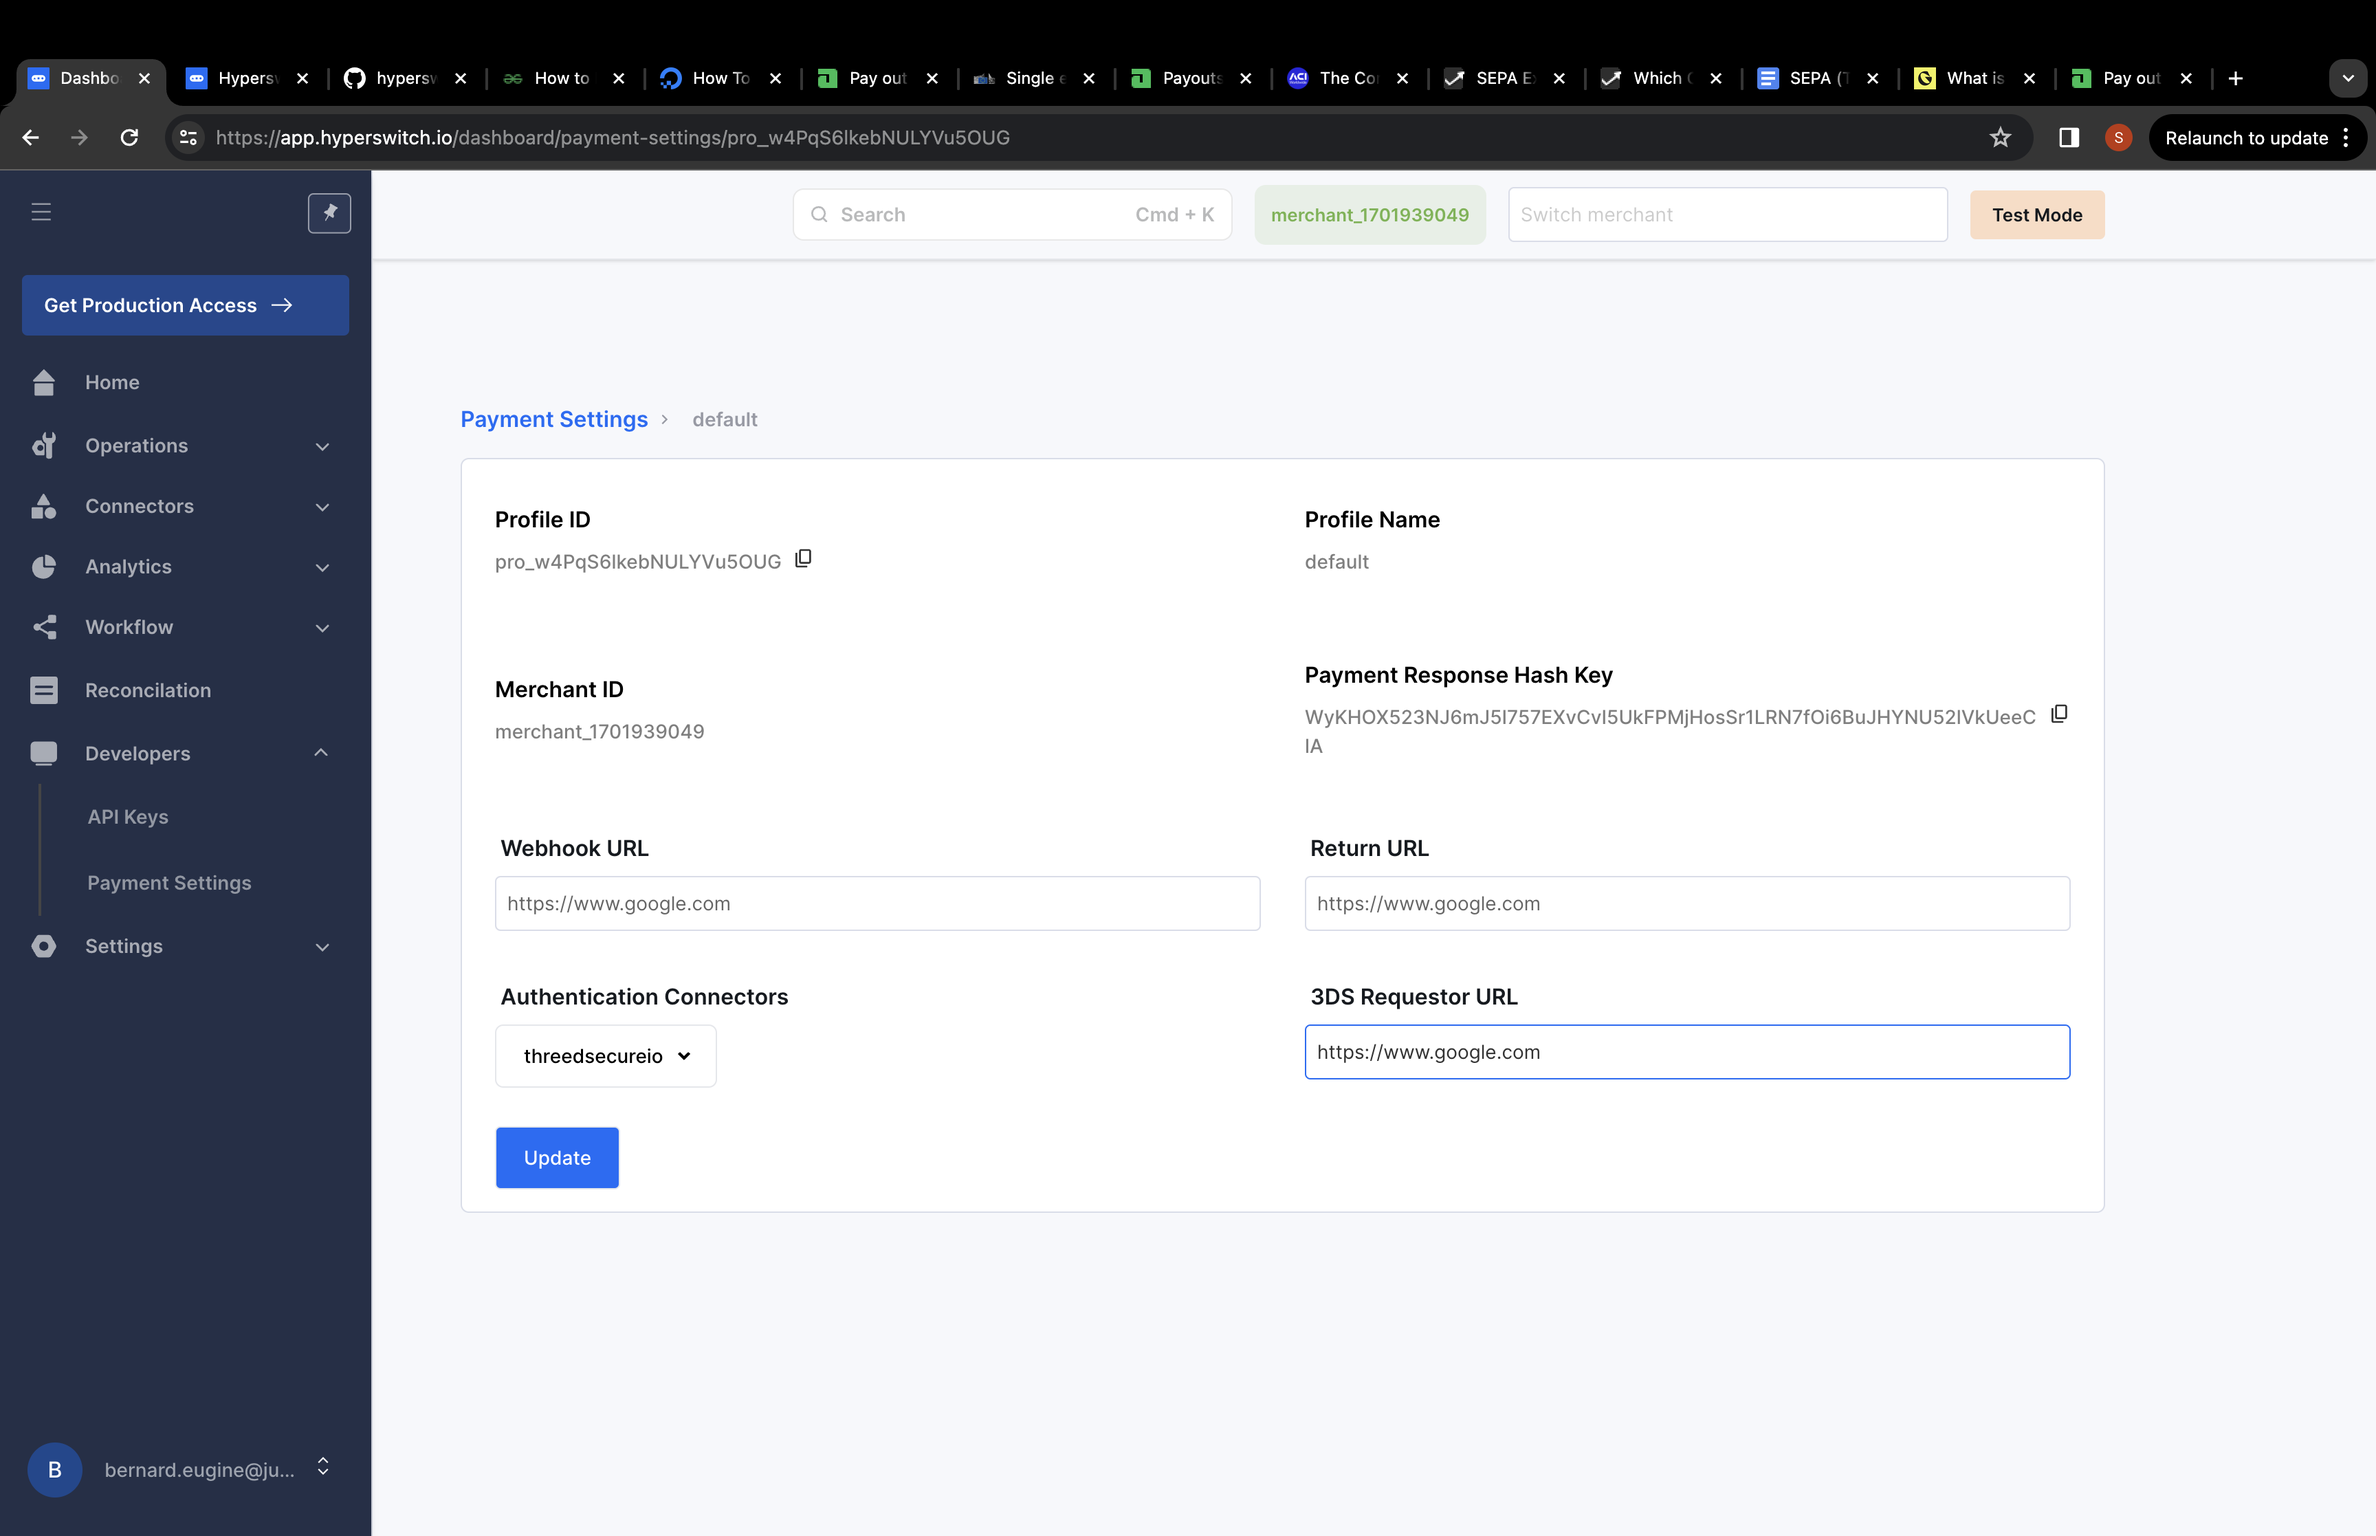
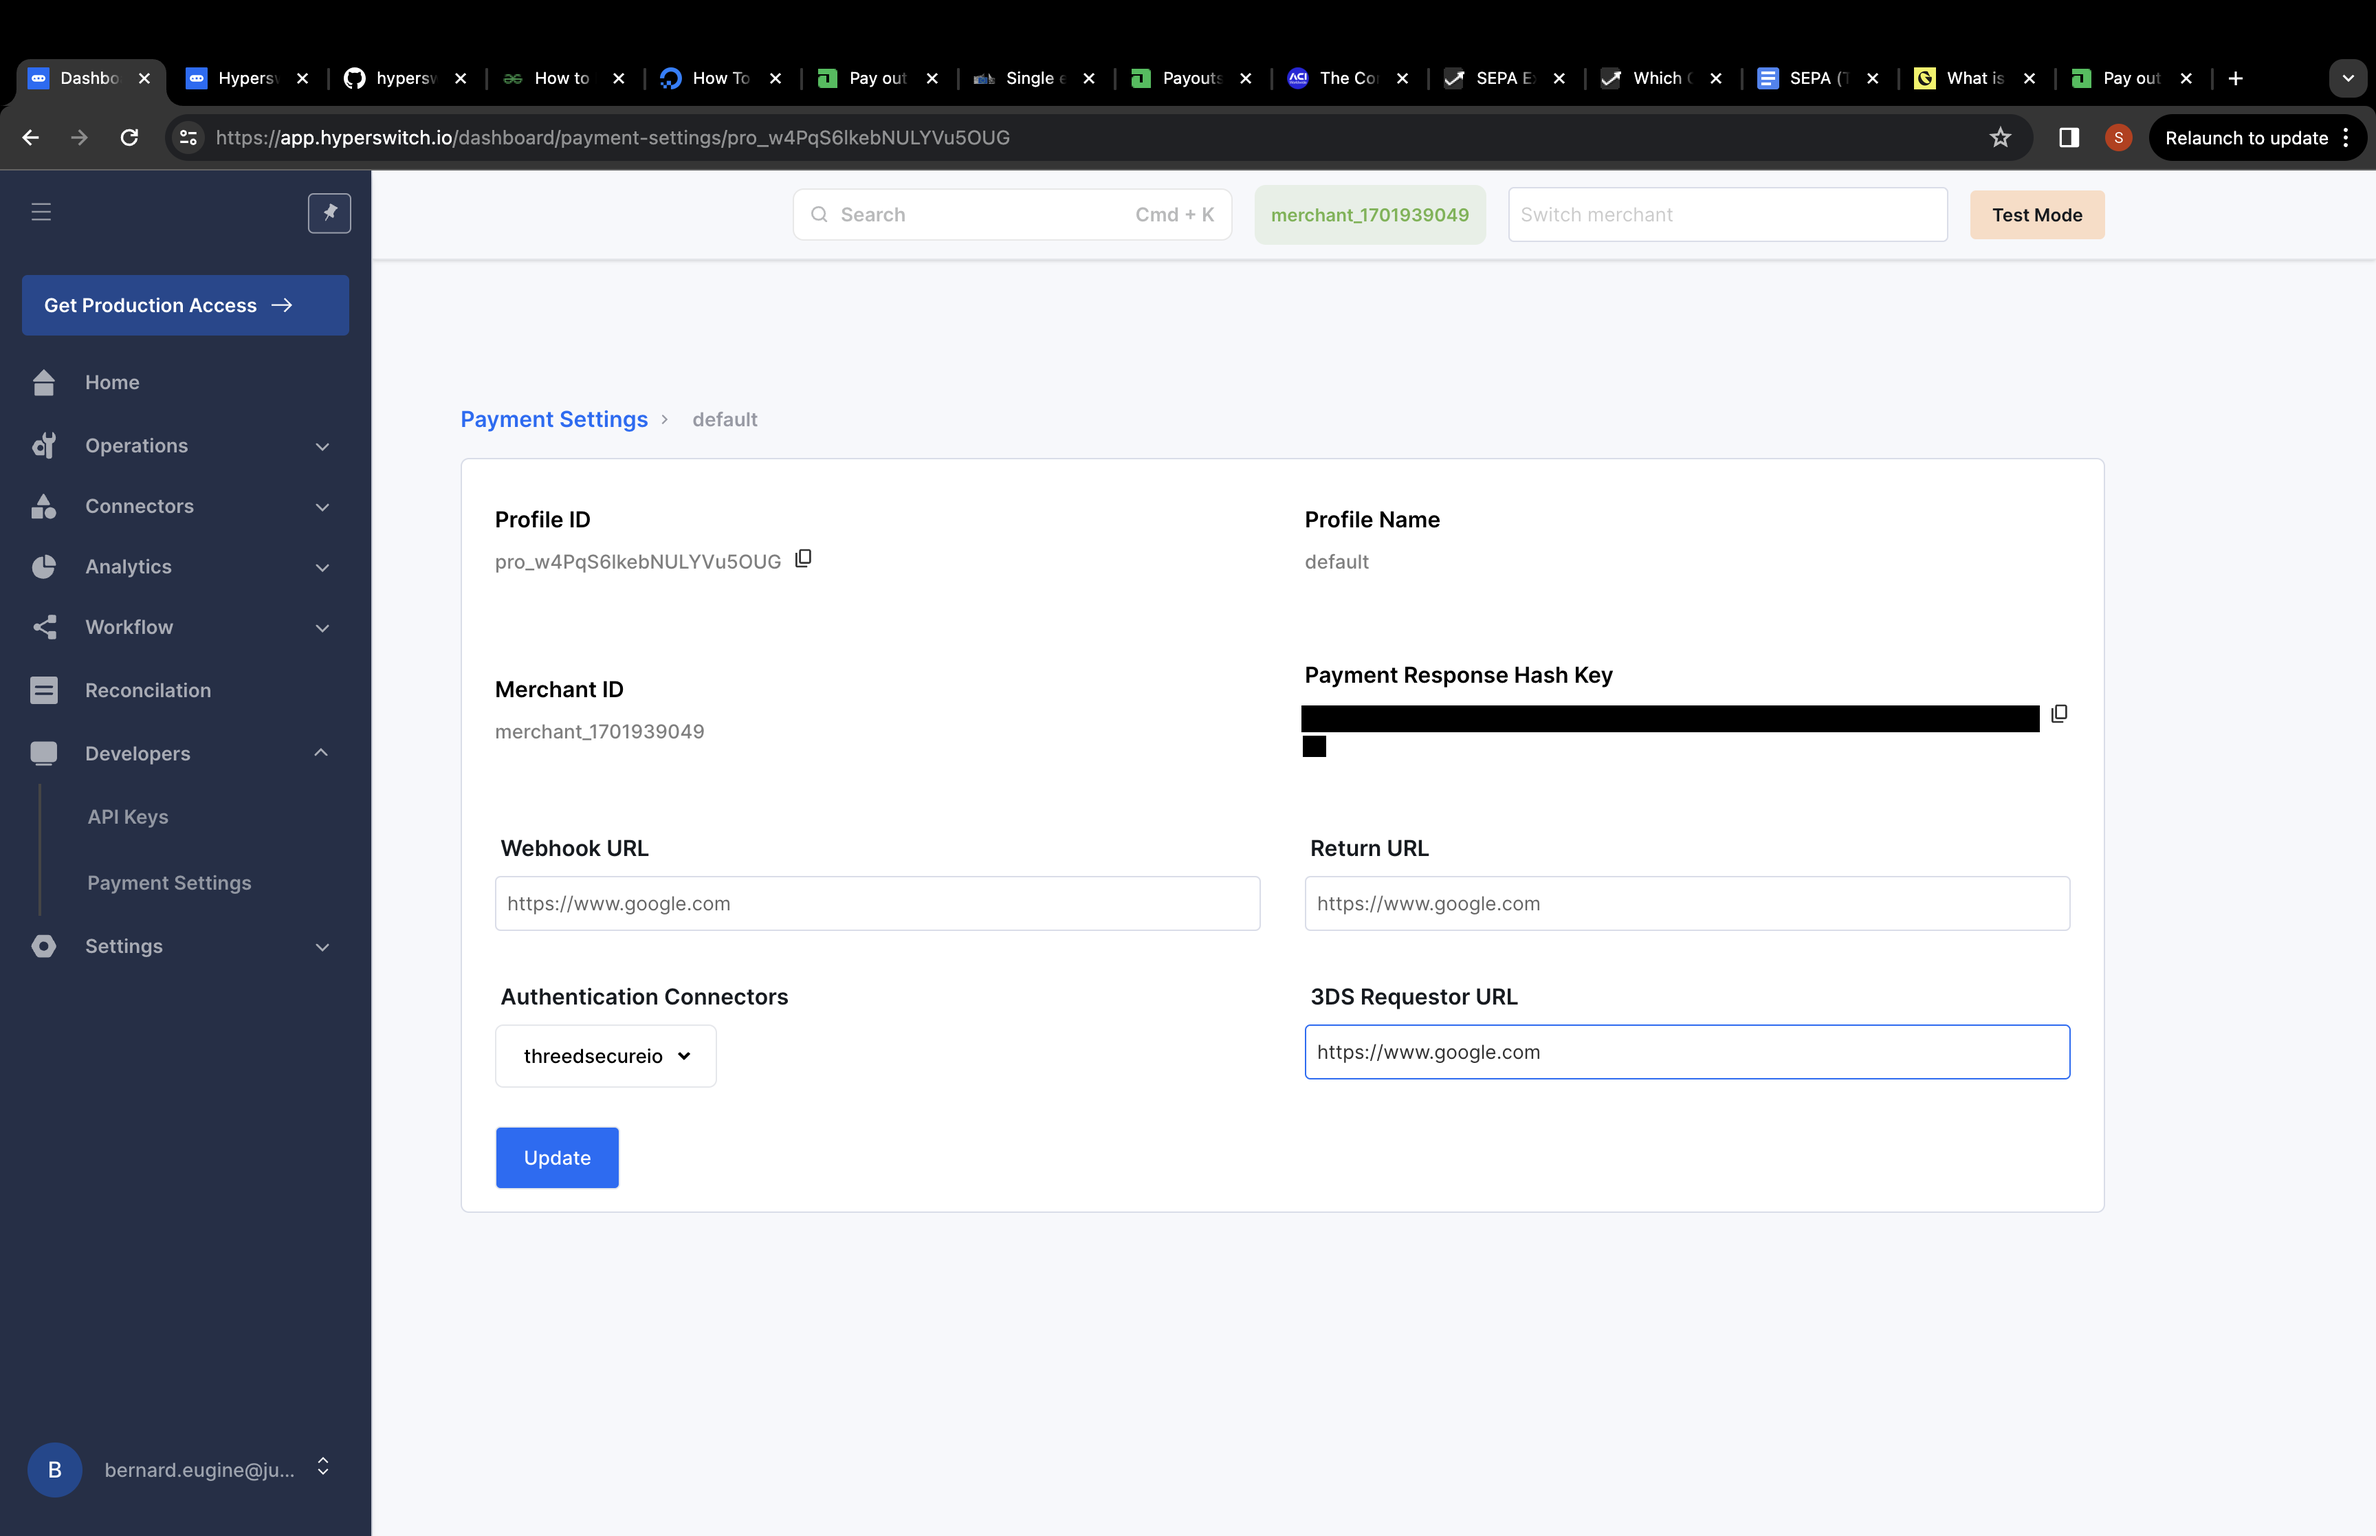
docs: use placeholder keys in examples and screenshots
Replace hardcoded API keys in curl examples with YOUR_API_KEY, mask key
values in dashboard and Postman screenshots, and move one externally
hosted screenshot into .gitbook/assets.

Changed region(s): [[0.5312, 0.4324, 0.875, 0.4942]]

diff --git a/other-features/e-commerce-platform-plugins/automatic-tax-calculation-for-express-checkout-wallets.md b/other-features/e-commerce-platform-plugins/automatic-tax-calculation-for-express-checkout-wallets.md
@@ -35,7 +35,7 @@ To enable collecting shipping details from Express checkout wallets, you need to
 * Click on Developers then Payment Settings.
 * For the particular profile id enable the '_<mark style="color:red;">Collect shipping details from wallets</mark>_'
 
-<figure><img src="https://lh7-rt.googleusercontent.com/docsz/AD_4nXfcuPydxmKYpa-4hHwg9X6-SgJNg_2kz-MIiqHjvt8G-qKL-rk7nr1wLE8qP0vmO10xRXaDf3oNvzSR1g9tXXatXHraPB094wUDONI62yAn5sumturz9f6XWduNqScDndCa-ofR-BYtVJpQSjU2O-5Jvh0h?key=60G18knFKBKAyEyzRsD8JA" alt=""><figcaption></figcaption></figure>
+<figure><img src="../../.gitbook/assets/payment-settings-tax-calculation.png" alt=""><figcaption></figcaption></figure>
 
 ### Skipping Tax calculation for a particular payment:
 

diff --git a/integration-guide/payment-suite/payment-method-card/proxy.md b/integration-guide/payment-suite/payment-method-card/proxy.md
@@ -195,8 +195,8 @@ Include the following details:
 --header 'Content-Type: application/json' \
 --header 'Accept: application/json' \
 --header 'X-Profile-Id: pro_p3ifmp0HzuC0Bp1KhMnK' \
---header 'Authorization: api-key=dev_bBPAkg0KX9Wn4Zewavrd0W76LsgDpGSey8iMARauXDWqzX4zwk4D03d0851Tx0EV' \
---header 'api-key: dev_30hnPzj6Kk6UAETk9hjWdaIxdVVuTk3mjmz2kxh6CIhq1K1DJ4nTZdpGt986L53G' \
+--header 'Authorization: api-key=YOUR_API_KEY' \
+--header 'api-key: YOUR_API_KEY' \
 --data '{
     "request_body": {
         "source": {

diff --git a/integration-guide/workflows/vault/hyperswitch-vault-pass-through-proxy-payments.md b/integration-guide/workflows/vault/hyperswitch-vault-pass-through-proxy-payments.md
@@ -49,8 +49,8 @@ Include the following details:
 --header 'Content-Type: application/json' \
 --header 'Accept: application/json' \
 --header 'X-Profile-Id: pro_p3ifmp0HzuC0Bp1KhMnK' \
---header 'Authorization: api-key=dev_bBPAkg0KX9Wn4Zewavrd0W76LsgDpGSey8iMARauXDWqzX4zwk4D03d0851Tx0EV' \
---header 'api-key: dev_30hnPzj6Kk6UAETk9hjWdaIxdVVuTk3mjmz2kxh6CIhq1K1DJ4nTZdpGt986L53G' \
+--header 'Authorization: api-key=YOUR_API_KEY' \
+--header 'api-key: YOUR_API_KEY' \
 --data '{
     "request_body": {
         "source": {

diff --git a/integration-space/connectors-integrations/subscriptions-with-modular-payments.md b/integration-space/connectors-integrations/subscriptions-with-modular-payments.md
@@ -182,7 +182,7 @@ curl --location 'http://localhost:8080/subscriptions/' \
 --header 'Content-Type: application/json' \
 --header 'Accept: application/json' \
 --header 'X-Profile-Id: pro_2WzEeiNyj8fSCObXqo36' \
---header 'api-key: dev_Ske75Nx2J7qtHsP8cc7pFx5k4dccYBedM6UAExaLOdHCkji3uVWSqfmZ0Qz0Tnyj' \
+--header 'api-key: YOUR_API_KEY' \
 --data '{
     "item_price_id": "cbdemo_enterprise-suite-INR-Daily",
     "customer_id": "cus_NdHhw4wwWyYXSldO9oYE",

diff --git a/other-features/connectors/subscriptions-with-modular-payments.md b/other-features/connectors/subscriptions-with-modular-payments.md
@@ -181,7 +181,7 @@ curl --location 'http://localhost:8080/subscriptions/' \
 --header 'Content-Type: application/json' \
 --header 'Accept: application/json' \
 --header 'X-Profile-Id: pro_2WzEeiNyj8fSCObXqo36' \
---header 'api-key: dev_Ske75Nx2J7qtHsP8cc7pFx5k4dccYBedM6UAExaLOdHCkji3uVWSqfmZ0Qz0Tnyj' \
+--header 'api-key: YOUR_API_KEY' \
 --data '{
     "item_price_id": "cbdemo_enterprise-suite-INR-Daily",
     "customer_id": "cus_NdHhw4wwWyYXSldO9oYE",

diff --git a/integration-guide/payment-suite/payments/copy-of-subscriptions.md b/integration-guide/payment-suite/payments/copy-of-subscriptions.md
@@ -233,7 +233,7 @@ curl --location 'http://<baseurl>/subscriptions/' \
 --header 'Content-Type: application/json' \
 --header 'Accept: application/json' \
 --header 'X-Profile-Id: pro_2WzEeiNyj8fSCObXqo36' \
---header 'api-key: dev_Ske75Nx2J7qtHsP8cc7pFx5k4dccYBedM6UAExaLOdHCkji3uVWSqfmZ0Qz0Tnyj' \
+--header 'api-key: YOUR_API_KEY' \
 --data '{
     "item_price_id": "cbdemo_enterprise-suite-INR-Daily",
     "customer_id": "cus_NdHhw4wwWyYXSldO9oYE",
